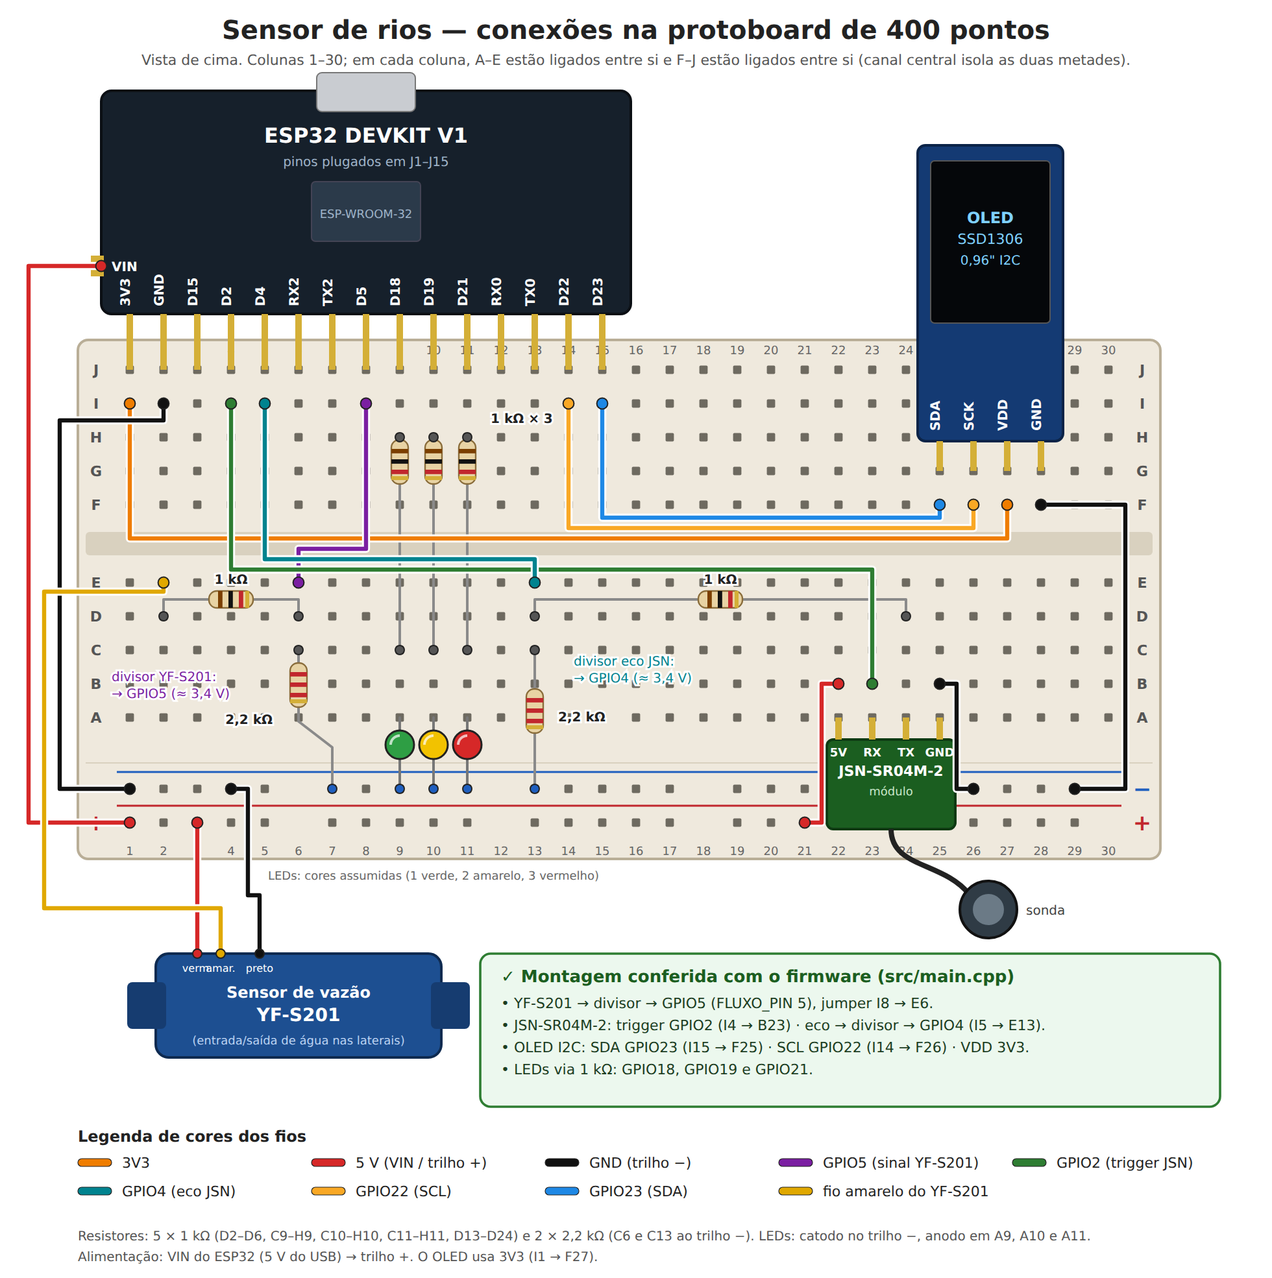
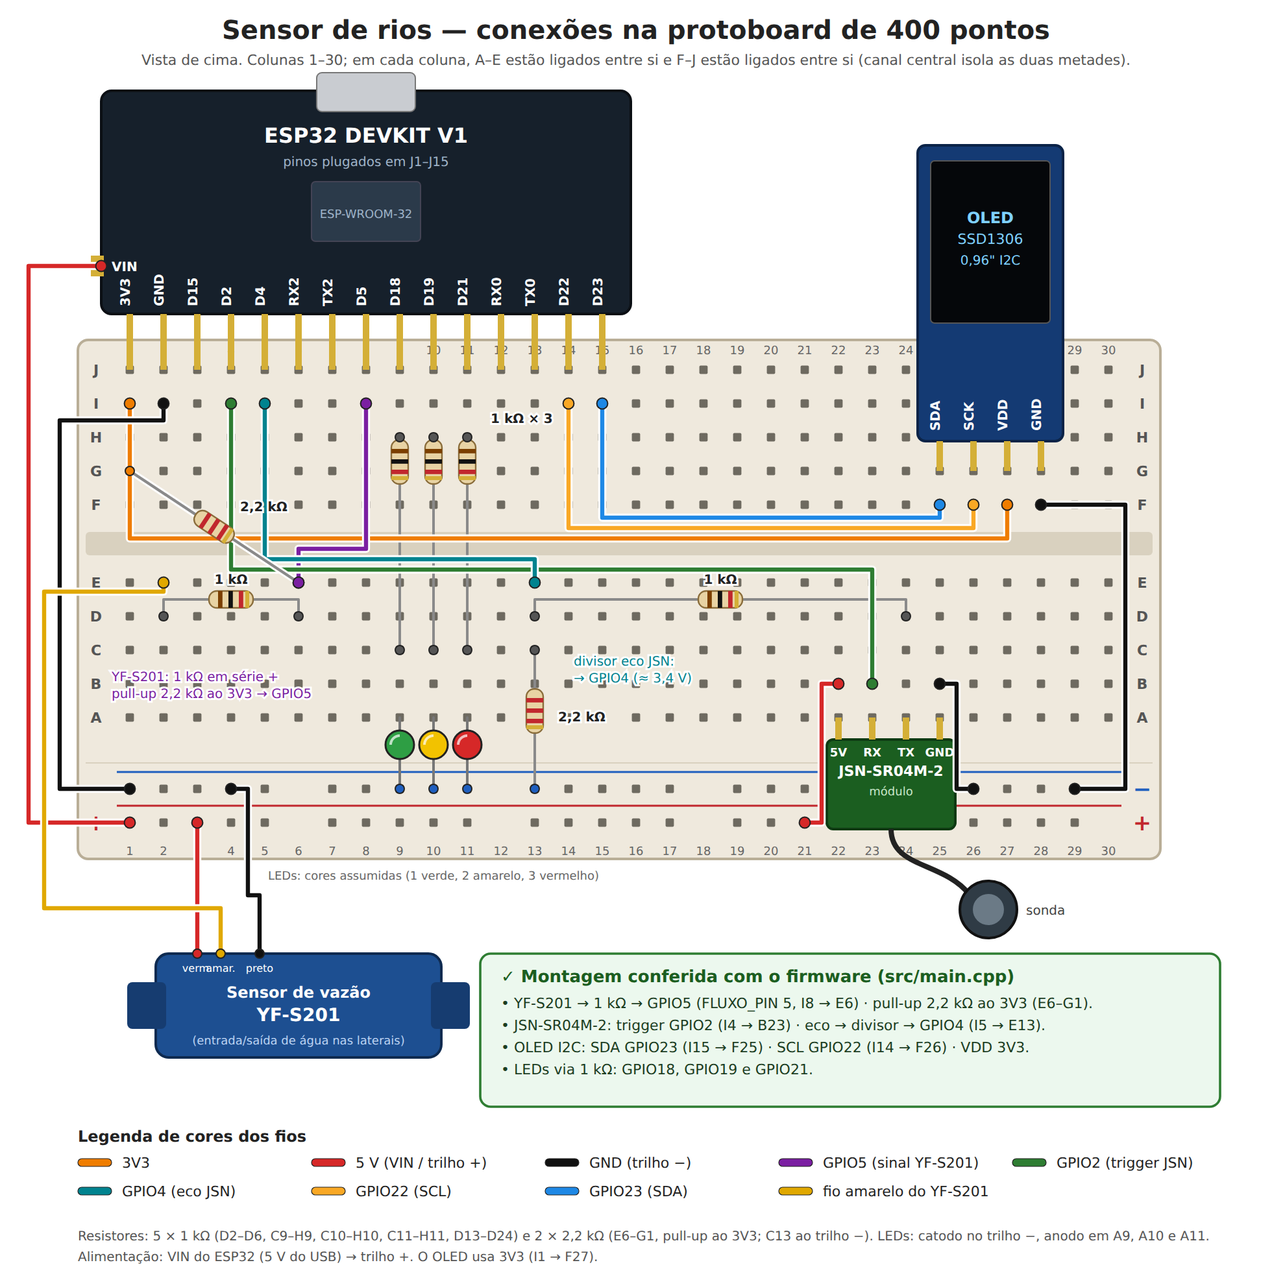
Atualizacao das imagens e mudanca no diagrama

diff --git a/projeto-fisico-sensor-rios/diagrama/gerar_diagrama.py b/projeto-fisico-sensor-rios/diagrama/gerar_diagrama.py
@@ -157,13 +157,9 @@ for c in (9, 10, 11):
     dot(x, ROW["C"], "#555", 3.5); dot(x, ROW["H"], "#555", 3.5)
 text(X(11) + 18, 326, "1 kΩ × 3", 10, anchor="start", weight="bold", halo=True)
 # 2,2 kΩ  C6→−  e  C13→−
-line([(X(6), ROW["C"]), (X(6), 556), (X(7), 576), (X(7), NEG_Y)], "#8a8a8a", 2, halo=False)
-resistor_body(X(6), 528, 90, "2k2", "")
-dot(X(6), ROW["C"], "#555", 3.5); dot(X(7), NEG_Y, "#1f5fbf", 3.5)
 line([(X(13), ROW["C"]), (X(13), NEG_Y)], "#8a8a8a", 2, halo=False)
 resistor_body(X(13), 548, 90, "2k2", "")
 dot(X(13), ROW["C"], "#555", 3.5); dot(X(13), NEG_Y, "#1f5fbf", 3.5)
-text(X(6) - 20, 558, "2,2 kΩ", 10, anchor="end", weight="bold", halo=True)
 text(X(13) + 18, 556, "2,2 kΩ", 10, anchor="start", weight="bold", halo=True)
 
 # --------------------------------------------------------------------------- jumpers
@@ -197,6 +193,14 @@ jmp([hx("B22"), (X(21) + 13, ROW["B"]), (X(21) + 13, POS_Y), (X(21), POS_Y)], C_
 # VIN -> trilho +
 jmp([vin, (22, vin[1]), (22, POS_Y), (X(1), POS_Y)], C_5V, "VIN", "POS")
 
+# 2,2 kΩ  E6 -> G1 (pull-up do sinal do YF-S201 ao 3V3), por cima dos fios
+e6, g1 = hx("E6"), hx("G1")
+line([e6, g1], "#8a8a8a", 2.2, halo=True)
+ang = math.degrees(math.atan2(g1[1] - e6[1], g1[0] - e6[0])) + 180
+resistor_body((e6[0] + g1[0]) / 2, (e6[1] + g1[1]) / 2, ang, "2k2", "")
+dot(*e6, "#7b1fa2", 4.2); dot(*g1, "#ef7d00", 3.5)
+text((e6[0] + g1[0]) / 2 + 20, (e6[1] + g1[1]) / 2 - 12, "2,2 kΩ", 10, anchor="start", weight="bold", halo=True)
+
 # rótulos curtos nos jumpers
 text(X(1) - 2, 300, "", 8)
 
@@ -224,7 +228,7 @@ def note(x, y, lines_, color="#444", anchor="start", size=10):
     for i, s in enumerate(lines_):
         text(x, y + i * 13, s, size, anchor=anchor, fill=color, halo=True)
 
-note(86, ROW["B"] - 2, ["divisor YF-S201:", "→ GPIO5 (≈ 3,4 V)"], "#7b1fa2")
+note(86, ROW["B"] - 2, ["YF-S201: 1 kΩ em série +", "pull-up 2,2 kΩ ao 3V3 → GPIO5"], "#7b1fa2")
 note(X(14) + 4, ROW["C"] + 12, ["divisor eco JSN:", "→ GPIO4 (≈ 3,4 V)"], "#00838f")
 note(X(16), ROW["F"] - 4 + 0, [], "#444")
 
@@ -232,7 +236,7 @@ note(X(16), ROW["F"] - 4 + 0, [], "#444")
 add(f'<rect x="370" y="735" width="570" height="118" rx="8" fill="#ecf8ee" stroke="#2e7d32" stroke-width="1.8"/>')
 text(386, 757, "✓ Montagem conferida com o firmware (src/main.cpp)", 13, anchor="start", weight="bold", fill="#1b5e20")
 for i, s in enumerate([
-    "• YF-S201 → divisor → GPIO5 (FLUXO_PIN 5), jumper I8 → E6.",
+    "• YF-S201 → 1 kΩ → GPIO5 (FLUXO_PIN 5, I8 → E6) · pull-up 2,2 kΩ ao 3V3 (E6–G1).",
     "• JSN-SR04M-2: trigger GPIO2 (I4 → B23) · eco → divisor → GPIO4 (I5 → E13).",
     "• OLED I2C: SDA GPIO23 (I15 → F25) · SCL GPIO22 (I14 → F26) · VDD 3V3.",
     "• LEDs via 1 kΩ: GPIO18, GPIO19 e GPIO21.",
@@ -249,7 +253,7 @@ for i, (col, nm) in enumerate(items):
     x = 60 + (i % 5) * 180; y = ly + 22 + (i // 5) * 22
     add(f'<rect x="{x}" y="{y - 9}" width="26" height="6" rx="3" fill="{col}" stroke="#222" stroke-width=".6"/>')
     text(x + 34, y - 2, nm, 11, anchor="start")
-text(60, ly + 76, "Resistores: 5 × 1 kΩ (D2–D6, C9–H9, C10–H10, C11–H11, D13–D24) e 2 × 2,2 kΩ (C6 e C13 ao trilho −). "
+text(60, ly + 76, "Resistores: 5 × 1 kΩ (D2–D6, C9–H9, C10–H10, C11–H11, D13–D24) e 2 × 2,2 kΩ (E6–G1, pull-up ao 3V3; C13 ao trilho −). "
      "LEDs: catodo no trilho −, anodo em A9, A10 e A11.", 10, anchor="start", fill="#555")
 text(60, ly + 92, "Alimentação: VIN do ESP32 (5 V do USB) → trilho +. O OLED usa 3V3 (I1 → F27).", 10, anchor="start", fill="#555")
 

diff --git a/projeto-fisico-sensor-rios/diagrama/verificar_conexoes.py b/projeto-fisico-sensor-rios/diagrama/verificar_conexoes.py
@@ -29,7 +29,7 @@ for a,b in jumpers: union(hole(a),hole(b))
 esp_vin = "ESP:VIN"; union(esp_vin,"POS")
 # LEDs: catodo no trilho negativo
 # ---- resistores (dois terminais, NÃO unem os nós) -------------------------
-res = [("2k2","NEG","C6"),("2k2","NEG","C13"),("1k","D2","D6"),("1k","C9","H9"),
+res = [("2k2","E6","G1"),("2k2","NEG","C13"),("1k","D2","D6"),("1k","C9","H9"),
        ("1k","C10","H10"),("1k","C11","H11"),("1k","D13","D24")]
 
 def net_of(ref): return find(hole(ref))
@@ -68,7 +68,8 @@ def conferir_firmware(caminho_main):
         ("OLED_SCL",     lambda n: esp_net(n) == pins["OLED.SCK"],           "ligação direta ao SCK do OLED"),
         ("JSN_RX",       lambda n: esp_net(n) == pins["JSN.RX"],             "ligação direta ao RX (trigger) do JSN"),
         ("JSN_TX",       lambda n: via_res(esp_net(n), "JSN.TX"),            "via 1 kΩ do divisor ao TX (eco) do JSN"),
-        ("FLUXO_PIN",    lambda n: via_res(esp_net(n), "YF-S201.AMARELO"),   "via 1 kΩ do divisor ao fio amarelo do YF-S201"),
+        ("FLUXO_PIN",    lambda n: via_res(esp_net(n), "YF-S201.AMARELO"),   "via 1 kΩ em série ao fio amarelo do YF-S201"),
+        ("FLUXO_PIN",    lambda n: via_res(esp_net(n), "ESP32.3V3"),         "pull-up de 2,2 kΩ ao 3V3"),
         ("LED_VERDE",    lambda n: via_res(esp_net(n), "LED1.anodo"),        "via 1 kΩ ao LED 1"),
         ("LED_AMARELO",  lambda n: via_res(esp_net(n), "LED2.anodo"),        "via 1 kΩ ao LED 2"),
         ("LED_VERMELHO", lambda n: via_res(esp_net(n), "LED3.anodo"),        "via 1 kΩ ao LED 3"),

diff --git a/projeto-fisico-sensor-rios/diagrama/conexoes-protoboard.md b/projeto-fisico-sensor-rios/diagrama/conexoes-protoboard.md
@@ -29,7 +29,7 @@ Arquivos: [`diagrama-protoboard.svg`](diagrama-protoboard.svg) (vetorial) ·
 |---|---|---|
 | I1 → F27 | 3V3 → OLED VDD | Alimenta o display com 3,3 V |
 | I2 → trilho − | GND do ESP32 → trilho − | Referência de terra |
-| I8 → E6 | GPIO5 → ponto central do divisor do YF-S201 | Entrada do sinal de vazão |
+| I8 → E6 | GPIO5 → nó do sinal do YF-S201 (coluna 6) | Entrada do sinal de vazão |
 | I4 → B23 | GPIO2 → RX do JSN-SR04M-2 | Trigger do ultrassônico |
 | I5 → E13 | GPIO4 → ponto central do divisor do eco | Leitura do eco do ultrassônico |
 | I14 → F26 | GPIO22 → SCK do OLED | I2C SCL |
@@ -43,22 +43,43 @@ Arquivos: [`diagrama-protoboard.svg`](diagrama-protoboard.svg) (vetorial) ·
 
 | Resistor | Entre | Função |
 |---|---|---|
-| 1 kΩ | D2 e D6 | Em série no sinal do YF-S201 (parte de cima do divisor) |
-| 2,2 kΩ | C6 e trilho − | Parte de baixo do divisor do YF-S201 |
+| 1 kΩ | D2 e D6 | Em série no sinal do YF-S201 |
+| 2,2 kΩ | E6 e G1 | Pull-up do sinal do YF-S201 ao 3V3 (G1 está na coluna 1, a mesma do pino 3V3) |
 | 1 kΩ | D13 e D24 | Em série no eco (TX) do JSN-SR04M-2 (parte de cima do divisor) |
 | 2,2 kΩ | C13 e trilho − | Parte de baixo do divisor do eco |
 | 1 kΩ | C9 e H9 | LED 1 → GPIO18 |
 | 1 kΩ | C10 e H10 | LED 2 → GPIO19 |
 | 1 kΩ | C11 e H11 | LED 3 → GPIO21 |
 
-**Divisores de tensão.** O sinal do YF-S201 (amarelo, E2 → D2) e o eco do JSN-SR04M-2 (A24 → D24) saem em 5 V.
-Cada um passa por 1 kΩ em série e 2,2 kΩ para o terra, e o ESP32 lê no ponto central:
+**Sinal do YF-S201: pull-up ao 3V3.** O fio amarelo (E2) passa pelo 1 kΩ (D2–D6) até a coluna 6, onde estão o GPIO5
+(jumper `I8 → E6`) e o 2,2 kΩ que sobe até o 3V3 (`E6 → G1`). É a ligação indicada quando a saída do sensor é em
+**coletor aberto**, isto é, o sensor só puxa a linha para o GND e o nível alto vem do pull-up. Com o 2,2 kΩ para o terra,
+como estava antes, uma saída desse tipo deixaria a linha sempre em nível baixo.
+
+Níveis esperados no GPIO5 com saída em coletor aberto:
+
+| Saída do YF-S201 | Tensão no GPIO5 | Leitura |
+|---|---|---|
+| Aberta (não conduz) | 3,3 V, pelo pull-up | Alto |
+| Conduzindo para o GND | `3,3 V × 1 / (1 + 2,2)` ≈ 1,03 V | Baixo, sem margem* |
+
+\* O ESP32 só garante leitura de nível baixo abaixo de `0,25 × 3,3 V` ≈ 0,83 V. Com 1,03 V o pino está na faixa
+indefinida: na prática costuma ser lido como baixo, mas fica sensível a ruído e pode perder pulsos. Trocar o 1 kΩ
+(D2–D6) por um jumper leva o nível baixo para perto de 0 V.
+
+Se a saída do seu YF-S201 fornecer 5 V ativamente (em vez de coletor aberto), o nível alto subiria para ≈ 4,5 V
+(`(5/1 + 3,3/2,2) / (1/1 + 1/2,2)`), acima dos 3,6 V máximos da entrada do ESP32; nesse caso o divisor para o terra
+seria o correto. Para confirmar, meça a tensão no D5 com um multímetro girando o rotor devagar: ela deve alternar
+entre cerca de 3,3 V e um valor baixo, sem nunca passar de 3,3 V.
+
+**Eco do JSN-SR04M-2: divisor de tensão.** O eco (A24 → D24) sai em 5 V, passa por 1 kΩ em série (D13–D24) e por
+2,2 kΩ para o terra (C13), e o ESP32 lê no ponto central:
 
 ```
 Vsaída = 5 V × 2,2 kΩ / (1 kΩ + 2,2 kΩ) ≈ 3,44 V
 ```
 
-Esse valor fica ligeiramente acima de 3,3 V, mas dentro do que as entradas do ESP32 costumam tolerar. Se quiser 3,3 V exatos, a combinação 1 kΩ + 2 kΩ daria 3,33 V.
+Esse valor fica ligeiramente acima de 3,3 V, mas abaixo do máximo de 3,6 V das entradas do ESP32. Com 1 kΩ + 2 kΩ seriam 3,33 V.
 
 ## Nós elétricos resultantes
 
@@ -66,14 +87,14 @@ Resultado de `python3 verificar_conexoes.py`, que aplica todas as conexões acim
 
 | Nó | Pinos ligados |
 |---|---|
-| GND (trilho −) | ESP32 GND, OLED GND, JSN GND, YF-S201 preto, catodos dos 3 LEDs, 2 × 2,2 kΩ |
+| GND (trilho −) | ESP32 GND, OLED GND, JSN GND, YF-S201 preto, catodos dos 3 LEDs, 2,2 kΩ do divisor do eco |
 | 5 V (trilho +) | ESP32 VIN, JSN 5V, YF-S201 vermelho |
-| 3,3 V (coluna 27, F–J) | ESP32 3V3, OLED VDD |
+| 3,3 V (colunas 1 e 27, F–J) | ESP32 3V3, OLED VDD, 2,2 kΩ do pull-up do YF-S201 (G1) |
 | I2C SCL (coluna 26, F–J) | ESP32 D22, OLED SCK |
 | I2C SDA (coluna 25, F–J) | ESP32 D23, OLED SDA |
 | Trigger (coluna 23, A–E) | ESP32 D2, JSN RX |
 | Eco, ponto central (coluna 13, A–E) | ESP32 D4, 1 kΩ (D13) vindo do JSN TX, 2,2 kΩ para o trilho − |
-| Vazão, ponto central (coluna 6, A–E) | ESP32 D5, 1 kΩ (D6) vindo do YF-S201, 2,2 kΩ para o trilho − |
+| Vazão (coluna 6, A–E) | ESP32 D5, 1 kΩ (D6) vindo do YF-S201, 2,2 kΩ (E6) para o 3V3 |
 
 Os pinos D15, RX2, TX2, RX0 e TX0 do ESP32 ficam sem ligação. D18, D19 e D21 só têm o resistor de 1 kΩ do LED correspondente.
 
@@ -90,10 +111,10 @@ Comparação entre a montagem e `../src/main.cpp`:
 | LED verde | 18 | 18 (C9–H9) | Confere, se o LED 1 for verde |
 | LED amarelo | 19 | 19 (C10–H10) | Confere, se o LED 2 for amarelo |
 | LED vermelho | 21 | 21 (C11–H11) | Confere, se o LED 3 for vermelho |
-| YF-S201 (`FLUXO_PIN`) | 5 | 5 (I8 → E6, via divisor) | Confere |
+| YF-S201 (`FLUXO_PIN`) | 5 | 5 (I8 → E6, via 1 kΩ, com pull-up de 2,2 kΩ ao 3V3) | Confere |
 
 O próprio `verificar_conexoes.py` faz essa conferência: ele lê os `#define` de pinos em `../src/main.cpp` e testa cada
-um contra os nós da montagem (ligação direta, ou através do resistor de 1 kΩ no caso dos divisores e dos LEDs).
+um contra os nós da montagem (ligação direta, ou através do resistor de 1 kΩ no caso do eco, do YF-S201 e dos LEDs; o pull-up de 2,2 kΩ do YF-S201 ao 3V3 também é conferido).
 Resultado atual: **todas as ligações conferem**. Se uma conexão da protoboard ou um pino do firmware mudar, rode o script
 de novo e atualize a lista de jumpers em `verificar_conexoes.py` e `gerar_diagrama.py`.
 

diff --git a/CHANGELOG.md b/CHANGELOG.md
@@ -19,8 +19,8 @@ Branch: `feature/sensor-rios-fisico-e-simulacao`
   - Em leitura inválida do ultrassônico, mantém a última distância e o último nível válidos.
   - A pasta `.pio/` (build e bibliotecas) não foi versionada.
 - `projeto-fisico-sensor-rios/diagrama/`: diagrama das conexões na protoboard de 400 pontos (`diagrama-protoboard.svg` e `.png`),
-  `conexoes-protoboard.md` (posição dos componentes, 11 jumpers, 7 resistores, divisores de tensão, nós elétricos e conferência com o firmware),
-  `gerar_diagrama.py` (gera o SVG) e `verificar_conexoes.py` (monta os nós elétricos a partir da lista de conexões e confere cada pino definido em `src/main.cpp`; todas as ligações conferem, com o sinal do YF-S201 no GPIO 5 pelo jumper `I8 → E6`).
+  `conexoes-protoboard.md` (posição dos componentes, 11 jumpers, 7 resistores, pull-up do YF-S201 e divisor do eco com os níveis de tensão, nós elétricos e conferência com o firmware),
+  `gerar_diagrama.py` (gera o SVG) e `verificar_conexoes.py` (monta os nós elétricos a partir da lista de conexões e confere cada pino definido em `src/main.cpp`, incluindo o pull-up do YF-S201; todas as ligações conferem, com o sinal do YF-S201 no GPIO 5 pelo jumper `I8 → E6`).
 - `simulacao-wokwi/`: `sketch.ino`, `diagram.json` e `libraries.txt` do projeto <https://wokwi.com/projects/476706772789091329>, com README.
   - `sketch.ino`: HC-SR04 no lugar do JSN-SR04M (TRIG = 32, ECHO = 34), botão no lugar do YF-S201 (GPIO 33, borda `FALLING`), LEDs em 25/26/27, OLED em SDA 21 / SCL 22.
   - Nível em % com referência de 100 cm; vazão com janela de 10 s e `frequência / 7,5`.
@@ -31,6 +31,9 @@ Branch: `feature/sensor-rios-fisico-e-simulacao`
 
 #### Alterado
 - `hardware/lista-de-materiais.md` (estava vazio) preenchida: ESP32 DEVKIT V1, protoboard de 400 pontos, YF-S201, JSN-SR04M-2, OLED SSD1306 de 0,96" I2C, LED vermelho, LED amarelo, LED verde, 5 resistores de 1 kΩ, 2 resistores de 2,2 kΩ e 11 jumpers, com uso de cada resistor, lista de jumpers, tabela de pinos e alimentação.
+- Sinal do YF-S201 na protoboard: o resistor de 2,2 kΩ passou a ligar `E6` a `G1` (pull-up ao 3V3), no lugar de `C6` ao trilho negativo. A ligação deixou de ser um divisor de tensão e virou 1 kΩ em série + pull-up de 2,2 kΩ; diagrama, verificador, conexões, lista de materiais e análise de cálculos atualizados, com os níveis de tensão esperados no GPIO 5.
+- `docs/imagens/etapa-2-compilacao.png` e `docs/imagens/etapa-3-simulacao.png` substituídas pelas capturas do sensor de rios (compilação do firmware físico e simulação no Wokwi).
+- `docs/validacao.md`: registradas as etapas 2 (compilação: RAM 6,9%, Flash 23,1%) e 3 (simulação: 53,44 cm → 46,56%, ATENCAO, LED amarelo, 20,95 L/min) do sensor de rios; os registros do protótipo v0.1.0 foram mantidos, sem as capturas antigas.
 - `.github/workflows/build.yml`: a compilação passou a usar `pio run -d projeto-fisico-sensor-rios`, já que o `platformio.ini` deixou de ficar na raiz.
 - Badge de compilação do README apontado para o repositório atual (`CaiqueRV/Monitoramento-Fluxo-de-Agua-ESP32`); o anterior apontava para outro endereço.
 
@@ -40,7 +43,8 @@ Branch: `feature/sensor-rios-fisico-e-simulacao`
 
 #### Pendências e pontos de atenção
 - As cores dos LEDs no diagrama (1 verde, 2 amarelo, 3 vermelho) foram assumidas a partir dos pinos do firmware.
-- Os documentos em `docs/` ainda descrevem o protótipo v0.1.0 e não foram atualizados.
+- Com exceção de `docs/validacao.md`, os documentos em `docs/` ainda descrevem o protótipo v0.1.0 e não foram atualizados.
+- Com o pull-up, o nível baixo no GPIO 5 fica em ≈ 1,03 V (sem margem em relação ao limite de 0,83 V do ESP32) se a saída do YF-S201 for em coletor aberto; medir a tensão no D5 para confirmar o tipo de saída. Trocar o 1 kΩ (D2–D6) por um jumper daria mais margem.
 - Pontos de atenção do firmware registrados na análise de cálculos e não corrigidos: resolução de 10 % por cm, nível de 100 % só em exatamente 20,0 cm, efeito da temperatura, estado inicial NORMAL sem leitura e fronteira de 66 % diferente entre físico e simulação.
 - Este changelog descreve o conteúdo das versões atuais; não foi feita comparação linha a linha com o firmware físico anterior, que não estava no repositório.
 

diff --git a/README.md b/README.md
@@ -37,6 +37,7 @@ Detalhes, tabelas, pontos de atenção e procedimento de calibração:
 
 * Placa: ESP32 DevKit V1 (`esp32dev`), framework Arduino, monitor serial a 115200 baud.
 * Bibliotecas: Adafruit GFX Library e Adafruit SSD1306 (instaladas pelo PlatformIO).
+* Compilação verificada: RAM 6,9% e Flash 23,1% ([registro da etapa 2](docs/validacao.md#etapa-2-compilação-do-firmware-físico)).
 
 ```bash
 cd projeto-fisico-sensor-rios
@@ -59,7 +60,8 @@ Os pinos conferem com a montagem na protoboard; a verificação é feita por
 
 Projeto online: <https://wokwi.com/projects/476706772789091329>
 
-Na simulação, o HC-SR04 representa o JSN-SR04M-2 e um botão representa os pulsos do YF-S201. Os parâmetros diferem
+Na simulação, o HC-SR04 representa o JSN-SR04M-2 e um botão representa os pulsos do YF-S201. A simulação foi
+validada (nível, estado, LEDs, vazão e OLED): veja o [registro da etapa 3](docs/validacao.md#etapa-3-simulação-no-wokwi). Os parâmetros diferem
 do físico (referência de 100 cm para o nível e janela de 10 s para a vazão); a comparação está na
 [seção 7 da análise de cálculos](modelo-calibracao/analise-calculos-sensores.md#7-diferenças-em-relação-à-simulação-wokwi).
 
@@ -73,13 +75,14 @@ Lista completa: [`hardware/lista-de-materiais.md`](hardware/lista-de-materiais.m
 
 ## Documentação do protótipo anterior (v0.1.0)
 
-A pasta [`docs/`](docs/) descreve o primeiro protótipo, que media apenas a vazão (YF-S201 + OLED + um LED, simulado com
-potenciômetro no GPIO27). Esses documentos ainda **não foram atualizados** para o sensor de rios e podem citar pinos e
-arquivos que não existem mais na raiz:
+O registro de validação, [`docs/validacao.md`](docs/validacao.md), já inclui as etapas 2 e 3 do sensor de rios, com as
+capturas em `docs/imagens/`. Os demais documentos de [`docs/`](docs/) descrevem o primeiro protótipo, que media apenas a
+vazão (YF-S201 + OLED + um LED, simulado com potenciômetro no GPIO27), e ainda **não foram atualizados**; eles podem citar
+pinos e arquivos que não existem mais na raiz:
 
 * [`docs/readme-v0.1.0-fluxo.md`](docs/readme-v0.1.0-fluxo.md): README anterior, arquivado
 * [`docs/documentacao-completa.md`](docs/documentacao-completa.md), [`docs/decisoes.md`](docs/decisoes.md),
-  [`docs/calibracao.md`](docs/calibracao.md), [`docs/validacao.md`](docs/validacao.md)
+  [`docs/calibracao.md`](docs/calibracao.md)
 
 ## Limitações atuais
 

diff --git a/modelo-calibracao/analise-calculos-sensores.md b/modelo-calibracao/analise-calculos-sensores.md
@@ -119,8 +119,8 @@ attachInterrupt(digitalPinToInterrupt(FLUXO_PIN), contarPulso, RISING);   // GPI
 void IRAM_ATTR contarPulso() { pulsos++; }
 ```
 
-Cada borda de subida do sinal incrementa `pulsos`. Na protoboard, o sinal chega ao GPIO 5 pelo divisor de tensão
-(jumper `I8 → E6`). A cada `TEMPO_VAZAO` (2 s) o valor é copiado e zerado
+Cada borda de subida do sinal incrementa `pulsos`. Na protoboard, o sinal chega ao GPIO 5 por um resistor de 1 kΩ em
+série, com pull-up de 2,2 kΩ ao 3V3 (jumper `I8 → E6`, resistor `E6 → G1`). A cada `TEMPO_VAZAO` (2 s) o valor é copiado e zerado
 dentro de uma seção crítica (`noInterrupts()` / `interrupts()`), evitando perder ou contar pulso duas vezes.
 
 ### 4.2 Pulsos → vazão
@@ -167,10 +167,13 @@ Observações sobre o código atual, para decidir na calibração. Nenhuma foi a
 7. **Pinos de boot do ESP32.** `JSN_RX` (GPIO 2) e `FLUXO_PIN` (GPIO 5) são pinos de *strapping*; costumam funcionar,
    mas sinais externos podem interferir no boot/gravação se estiverem ativos nesse momento.
 8. **Níveis lógicos.** YF-S201 e JSN-SR04M-2 respondem com 5 V, enquanto o ESP32 aceita 3,3 V nas entradas.
-   Na protoboard, o sinal do YF-S201 e o eco do JSN-SR04M-2 passam cada um por um divisor de 1 kΩ (em série) e 2,2 kΩ
-   (para o terra): `5 V × 2,2 / (1 + 2,2) ≈ 3,44 V`. Isso fica um pouco acima de 3,3 V; com 1 kΩ + 2 kΩ seriam 3,33 V.
-   Como o firmware usa `INPUT_PULLUP` em `FLUXO_PIN`, há também um pull-up interno (dezenas de kΩ) em paralelo ao divisor;
-   o efeito é pequeno, mas existe.
+   Na protoboard, o eco do JSN-SR04M-2 passa por um divisor de 1 kΩ (em série) e 2,2 kΩ (para o terra):
+   `5 V × 2,2 / (1 + 2,2) ≈ 3,44 V`, um pouco acima de 3,3 V (com 1 kΩ + 2 kΩ seriam 3,33 V).
+   O sinal do YF-S201 usa 1 kΩ em série e pull-up de 2,2 kΩ ao 3V3, ligação indicada para saída em coletor aberto.
+   Nesse caso o nível baixo fica em ≈ 1,03 V (`3,3 × 1 / (1 + 2,2)`), acima do limite garantido de 0,83 V do ESP32:
+   costuma funcionar, mas sem margem contra ruído. O `INPUT_PULLUP` do firmware (dezenas de kΩ) fica em paralelo ao
+   pull-up externo e quase não muda os níveis. Detalhes e como medir em
+   [`conexoes-protoboard.md`](../projeto-fisico-sensor-rios/diagrama/conexoes-protoboard.md#resistores-5--1-kω-e-2--22-kω).
 
 ### Efeito da temperatura na velocidade do som
 

diff --git a/hardware/lista-de-materiais.md b/hardware/lista-de-materiais.md
@@ -14,24 +14,25 @@ Atualizada em 09/10/2026.
 | 6 | LED vermelho | 1 | Status PERIGO |
 | 7 | LED amarelo | 1 | Status ATENÇÃO |
 | 8 | LED verde | 1 | Status NORMAL |
-| 9 | Resistor de 1 kΩ | 5 | 3 em série com os LEDs e 2 como parte de cima dos divisores de tensão |
-| 10 | Resistor de 2,2 kΩ | 2 | Parte de baixo (para o terra) dos divisores de tensão |
+| 9 | Resistor de 1 kΩ | 5 | 3 em série com os LEDs, 1 em série no sinal do YF-S201 e 1 no divisor do eco do JSN-SR04M-2 |
+| 10 | Resistor de 2,2 kΩ | 2 | 1 pull-up do sinal do YF-S201 ao 3V3 e 1 no divisor do eco (para o terra) |
 | 11 | Jumpers | 11 | Ligações entre ESP32, display, sensores e trilhos (lista completa abaixo) |
 
 ## Uso dos resistores
 
 | Resistor | Entre | Função |
 |---|---|---|
-| 1 kΩ | D2 e D6 | Série no sinal do YF-S201 (divisor) |
-| 2,2 kΩ | C6 e trilho − | Terra do divisor do YF-S201 |
+| 1 kΩ | D2 e D6 | Série no sinal do YF-S201 |
+| 2,2 kΩ | E6 e G1 | Pull-up do sinal do YF-S201 ao 3V3 |
 | 1 kΩ | D13 e D24 | Série no eco do JSN-SR04M-2 (divisor) |
 | 2,2 kΩ | C13 e trilho − | Terra do divisor do eco |
 | 1 kΩ | C9 e H9 | LED 1 (GPIO18) |
 | 1 kΩ | C10 e H10 | LED 2 (GPIO19) |
 | 1 kΩ | C11 e H11 | LED 3 (GPIO21) |
 
-Os divisores reduzem os 5 V do YF-S201 e do eco do JSN-SR04M-2 para ≈ 3,44 V
-(`5 V × 2,2 / (1 + 2,2)`), compatível com as entradas do ESP32.
+O divisor do eco reduz os 5 V do JSN-SR04M-2 para ≈ 3,44 V (`5 V × 2,2 / (1 + 2,2)`). O sinal do YF-S201 usa
+pull-up ao 3V3, e os níveis de tensão resultantes estão explicados em
+[`conexoes-protoboard.md`](../projeto-fisico-sensor-rios/diagrama/conexoes-protoboard.md#resistores-5--1-kω-e-2--22-kω).
 
 ## Jumpers (11)
 
@@ -51,7 +52,7 @@ Conforme `projeto-fisico-sensor-rios/src/main.cpp`.
 | OLED SSD1306 (I2C, endereço 0x3C) | SCL | 22 |
 | JSN-SR04M-2 | Trigger (`JSN_RX`) | 2 |
 | JSN-SR04M-2 | Eco (`JSN_TX`), via divisor | 4 |
-| YF-S201 | Pulsos (`FLUXO_PIN`), via divisor | 5 |
+| YF-S201 | Pulsos (`FLUXO_PIN`), via 1 kΩ, pull-up de 2,2 kΩ ao 3V3 | 5 |
 | LED verde | Anodo, via 1 kΩ | 18 |
 | LED amarelo | Anodo, via 1 kΩ | 19 |
 | LED vermelho | Anodo, via 1 kΩ | 21 |

diff --git a/simulacao-wokwi/README.md b/simulacao-wokwi/README.md
@@ -38,7 +38,7 @@ Conferidas contra os pinos do `sketch.ino` (todas coincidem).
 | Protoboard de 400 pontos | Meia protoboard (`wokwi-breadboard-half`) |
 | JSN-SR04M-2 | HC-SR04 |
 | YF-S201 | Botão |
-| Divisores de tensão 1 kΩ + 2,2 kΩ | Não usados: no Wokwi não há risco de 5 V nas entradas |
+| Divisor do eco e pull-up do YF-S201 (1 kΩ + 2,2 kΩ) | Não usados: o botão já vai ao GND com `INPUT_PULLUP`, e no Wokwi não há 5 V nas entradas |
 
 Os pinos da simulação são diferentes dos do projeto físico (veja [`../hardware/lista-de-materiais.md`](../hardware/lista-de-materiais.md)).
 
